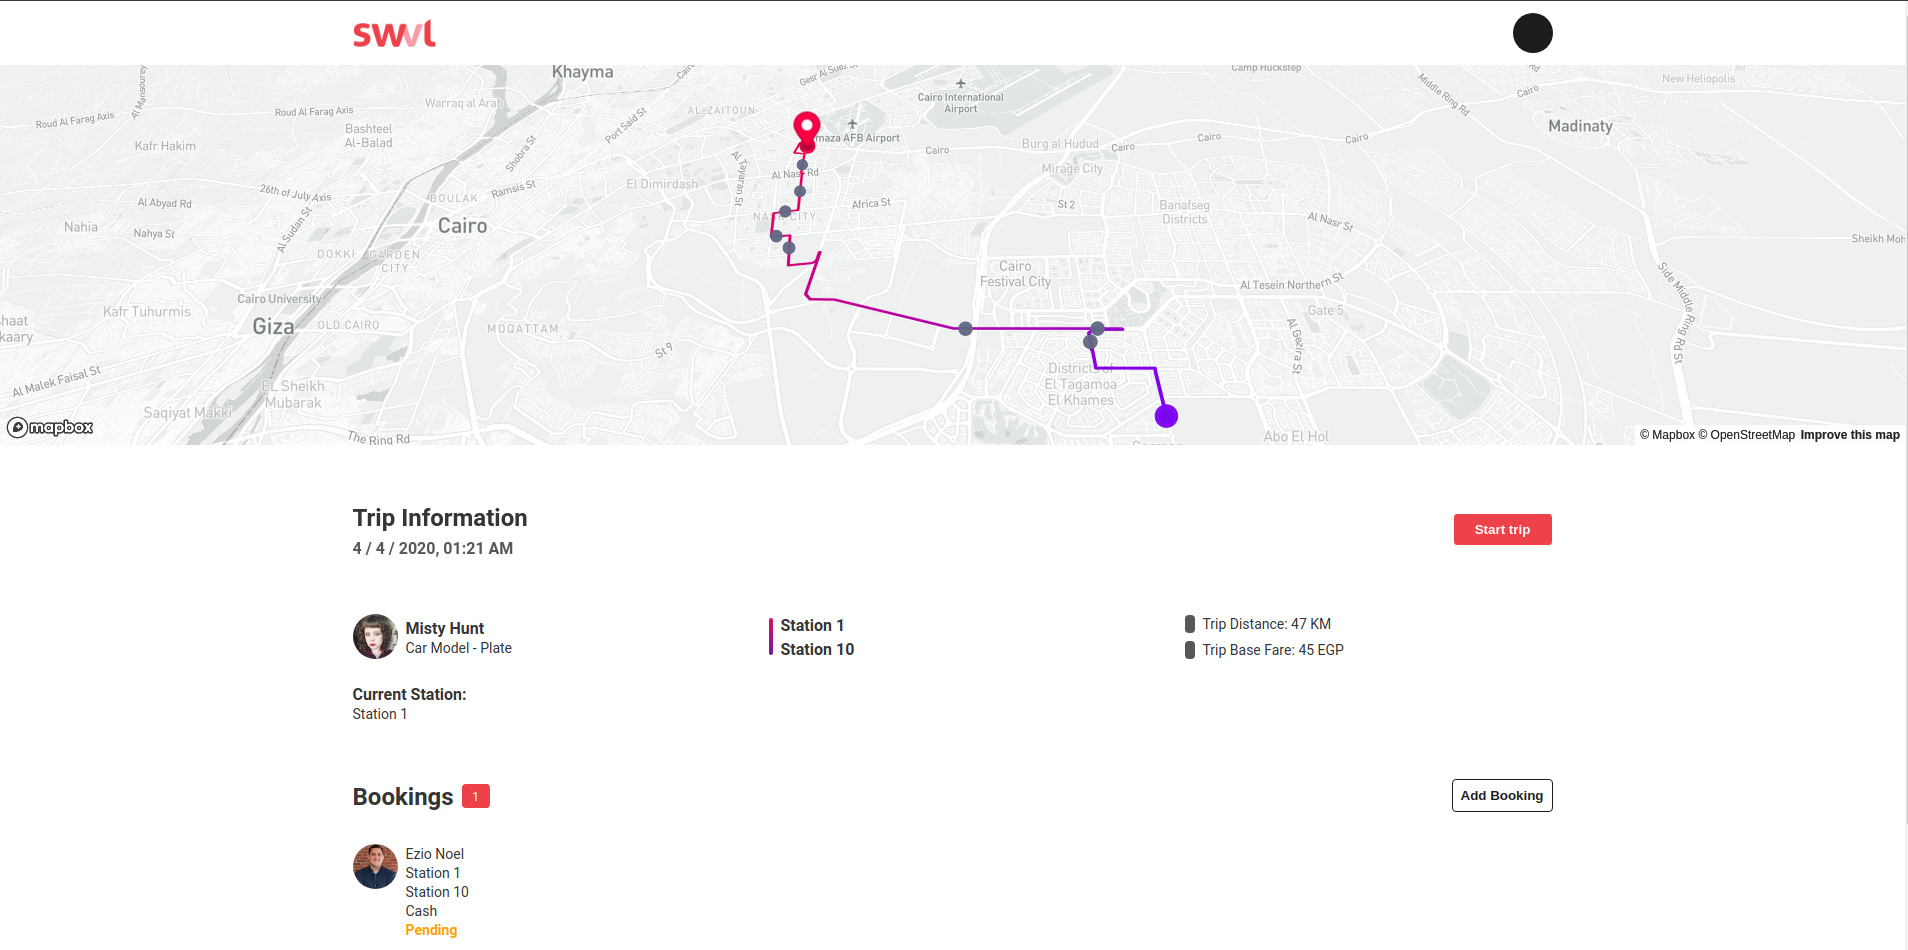
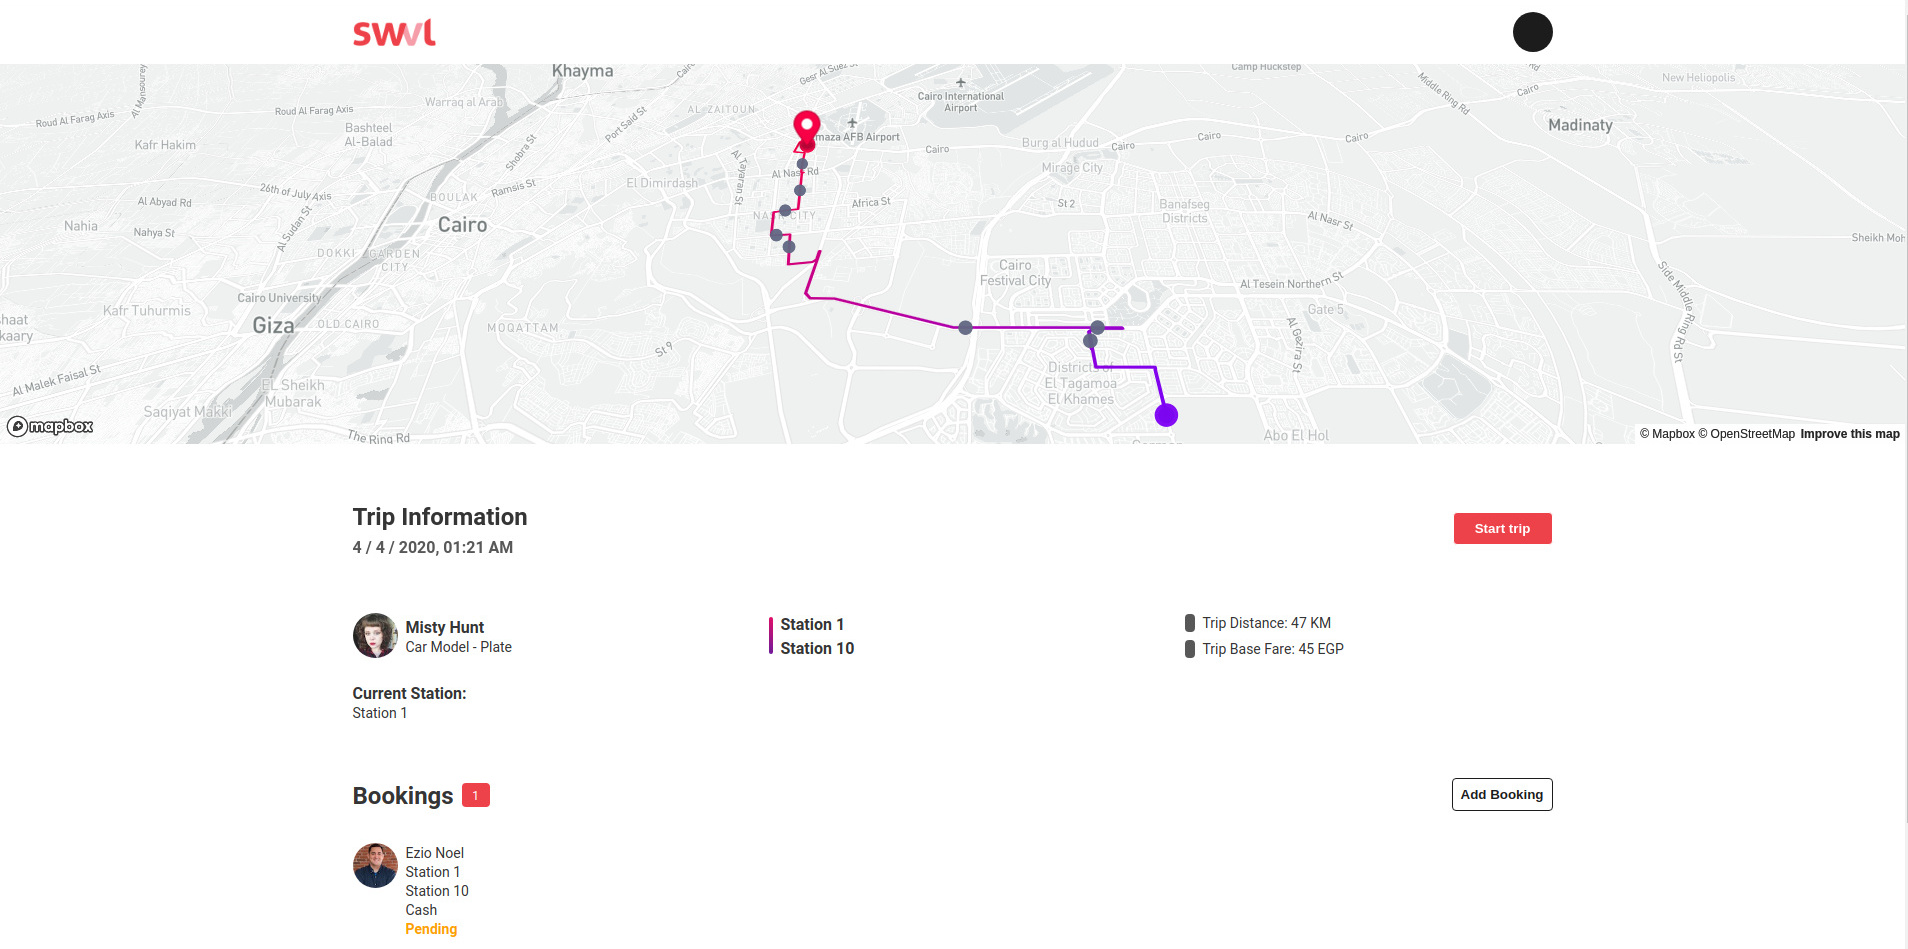
Update readme

diff --git a/README.md b/README.md
@@ -32,14 +32,14 @@ https://swvltaskrm.netlify.com/
 <img src="https://gitlab.com/rmah/task/-/raw/master/readme/mobile-dark.jpg" width="200" height="400" style="margin:16px;"/>
 <img src="https://gitlab.com/rmah/task/-/raw/master/readme/mobile-light.jpg" width="200" height="400"style="margin:16px;" />
 
-<img src="https://gitlab.com/rmah/task/-/raw/master/readme/desktop-dark.jpg" width="100%"  style="margin:16px;"/>
-<img src="https://gitlab.com/rmah/task/-/raw/master/readme/desktop-light.jpg" width="100%"  style="margin:16px;"/>
+<img src="https://gitlab.com/rmah/task/-/raw/master/readme/desktop-dark.jpg" width="50%"  style="margin:16px;"/>
+<img src="https://gitlab.com/rmah/task/-/raw/master/readme/desktop-light.jpg" width="50%"  style="margin:16px;"/>
 
-<img src="https://gitlab.com/rmah/task/-/raw/master/readme/reset.jpg" width="100%" style="margin:16px;" />
+<img src="https://gitlab.com/rmah/task/-/raw/master/readme/reset.jpg" width="50%" style="margin:16px;" />
 
-<img src="https://gitlab.com/rmah/task/-/raw/master/readme/trip-progress.jpg" width="100%"  style="margin:16px;"/>
-<img src="https://gitlab.com/rmah/task/-/raw/master/readme/stats2.jpg" width="100%"  style="margin:16px;"/>
-<img src="https://gitlab.com/rmah/task/-/raw/master/readme/stats.jpg" width="100%"  style="margin:16px;"/>
+<img src="https://gitlab.com/rmah/task/-/raw/master/readme/trip-progress.jpg" width="50%"  style="margin:16px;"/>
+<img src="https://gitlab.com/rmah/task/-/raw/master/readme/stats2.jpg" width="50%"  style="margin:16px;"/>
+<img src="https://gitlab.com/rmah/task/-/raw/master/readme/stats.jpg" width="50%"  style="margin:16px;"/>
 
 ## Libraries & Tools Used
 
